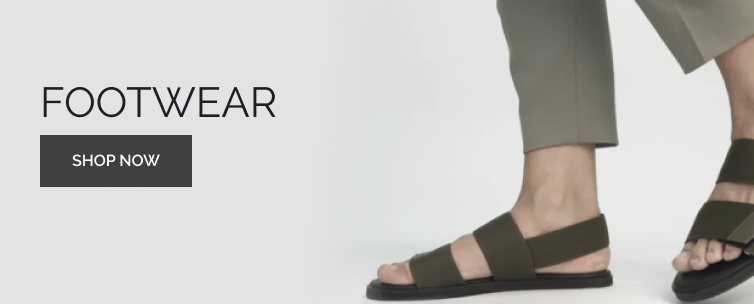
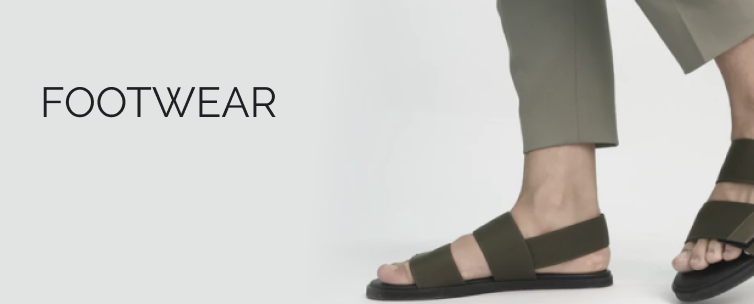
landing page major issues solved

Changed region(s): [[0.0305, 0.4441, 0.2745, 0.6217]]

diff --git a/src/components/ProductRow/ProductRow.js b/src/components/ProductRow/ProductRow.js
@@ -8,54 +8,77 @@ import Typography from '@material-ui/core/Typography';
 import ShoppingCartIcon from '@material-ui/icons/ShoppingCart';
 import FavoriteBorderIcon from '@material-ui/icons/FavoriteBorder';
 import translate from '../../utils/i18n/translate';
-import ArrowBackIosIcon from '@material-ui/icons/ArrowBackIos';
-import ArrowForwardIosIcon from '@material-ui/icons/ArrowForwardIos';
 import IconButton from '@material-ui/core/IconButton';
+import ArrowBackIcon from '@material-ui/icons/ArrowBack';
+import ArrowForwardIcon from '@material-ui/icons/ArrowForward';
 
 function ProductRow({ title, items }) {
   const translator = (item) =>
     translate(item) === item ? item : translate(item);
 
+  const handleNextClick = () => {
+    document.querySelector('.productRow__items').scrollLeft += 250;
+  };
+
+  const handlePrevClick = () => {
+    document.querySelector('.productRow__items').scrollLeft -= 250;
+  };
   return (
     <div className="productRow">
       <h2>{translator(title)}</h2>
 
-      <div className="productRow__itemsRow"></div>
-      <div className="productRow__items">
-        {items.map((item) => (
-          <Card
-            className="productRow__item"
-            style={{ border: 'none', boxShadow: 'none' }}
-          >
-            <CardActionArea>
-              <CardMedia
-                component="img"
-                height="340"
-                image={item.imageUrl}
-                title={translator(item.name)}
-                alt={translator(item.name)}
-              />
-              <CardContent>
-                <Typography gutterBottom variant="h5" component="h2">
-                  <div className="productRow__itemWishlist">
-                    <strong>{translator(item.name)}</strong>
-                    <FavoriteBorderIcon fontSize="large" />
-                  </div>
-                </Typography>
+      <div className="productRow__itemsContainer">
+        <div className="productRow__leftButton" onClick={handlePrevClick}>
+          <IconButton>
+            <ArrowBackIcon />
+          </IconButton>
+        </div>
 
-                <Typography variant="body2" color="textSecondary" component="p">
-                  <div className="productRow__itemCart">
-                    <strong>&#8377; {item.price}</strong>
-                    <ShoppingCartIcon
-                      className="productRow__icon"
-                      fontSize="large"
-                    />
-                  </div>
-                </Typography>
-              </CardContent>
-            </CardActionArea>
-          </Card>
-        ))}
+        <div className="productRow__items">
+          {items.map((item) => (
+            <Card
+              className="productRow__item"
+              style={{ border: 'none', boxShadow: 'none' }}
+            >
+              <CardActionArea>
+                <CardMedia
+                  component="img"
+                  height="340"
+                  image={item.imageUrl}
+                  title={translator(item.name)}
+                  alt={translator(item.name)}
+                />
+                <CardContent>
+                  <Typography gutterBottom variant="h5" component="h2">
+                    <div className="productRow__itemWishlist">
+                      <strong>{translator(item.name)}</strong>
+                      <FavoriteBorderIcon fontSize="large" />
+                    </div>
+                  </Typography>
+
+                  <Typography
+                    variant="body2"
+                    color="textSecondary"
+                    component="p"
+                  >
+                    <div className="productRow__itemCart">
+                      <strong>&#8377; {item.price}</strong>
+                      <ShoppingCartIcon
+                        className="productRow__icon"
+                        fontSize="large"
+                      />
+                    </div>
+                  </Typography>
+                </CardContent>
+              </CardActionArea>
+            </Card>
+          ))}
+        </div>
+        <div className="productRow__leftButton" onClick={handleNextClick}>
+          <IconButton>
+            <ArrowForwardIcon />
+          </IconButton>
+        </div>
       </div>
     </div>
   );

diff --git a/src/views/Home/Home.js b/src/views/Home/Home.js
@@ -13,19 +13,35 @@ const Home = () => {
         <div
           className="home__categories1"
           style={{ backgroundImage: `url(${bannerImages[0].img})` }}
-        ></div>
+        >
+          <div className="home__tileElement">
+            <button className="home__shopButton">Shop Now</button>
+          </div>
+        </div>
         <div
           className="home__categories2"
           style={{ backgroundImage: `url(${bannerImages[1].img})` }}
-        ></div>
+        >
+          <div className="home__tileElement">
+            <button className="home__shopButton">Shop Now</button>
+          </div>
+        </div>
         <div
           className="home__categories3"
           style={{ backgroundImage: `url(${bannerImages[2].img})` }}
-        ></div>
+        >
+          <div className="home__tileElement">
+            <button className="home__shopButton">Shop Now</button>
+          </div>
+        </div>
         <div
           className="home__categories4"
           style={{ backgroundImage: `url(${bannerImages[3].img})` }}
-        ></div>
+        >
+          <div className="home__tileElement">
+            <button className="home__shopButton">Shop Now</button>
+          </div>
+        </div>
       </div>
       <div className="products">
         <ProductRow title="Featured Products" items={PRODUCTS} />

diff --git a/src/views/Home/Home.scss b/src/views/Home/Home.scss
@@ -16,7 +16,7 @@
       'home__categories1 home__categories4 home__categories4';
     @media (max-width: 600px) {
       width: 90%;
-      height: 150vh;
+      height: 185vh;
       grid-template-columns: 1fr;
       grid-template-rows: 1fr 1fr 1fr 1fr;
       grid-template-areas:
@@ -57,5 +57,22 @@
   }
   .home__products {
     display: flex;
+  }
+
+  .home__shopButton {
+    background-color: #43464e;
+    border: 1px solid #43464e;
+    color: #fff;
+    border-radius: 2px;
+    width: 40%;
+    border: 1px solid;
+    margin-top: 10px;
+    font-size: 17px;
+    line-height: 20px;
+  }
+
+  .home__tileElement {
+    margin-top: 35vh;
+    margin-left: 3vw;
   }
 }

diff --git a/src/components/carousel/Carousel.scss b/src/components/carousel/Carousel.scss
@@ -1,10 +1,10 @@
-@import "../colors";
+@import '../colors';
 .carousel {
   width: 90%;
   height: 600px;
   margin: auto;
   background-color: black;
-  font-family: "Raleway", sans-serif;
+  font-family: 'Raleway', sans-serif;
   @media (max-width: 600px) {
     width: 100%;
     height: 50vh;
@@ -41,9 +41,9 @@
           outline-width: 0;
           cursor: pointer;
           transition: padding 0.5s;
-          &:hover{
-            padding-left:0.8rem;
-            padding-right:0.8rem;
+          &:hover {
+            padding-left: 0.8rem;
+            padding-right: 0.8rem;
           }
         }
       }

diff --git a/src/components/ProductRow/ProductRow.css b/src/components/ProductRow/ProductRow.css
@@ -4,11 +4,16 @@
   width: 90%;
 }
 
+.productRow__itemsContainer {
+  display: flex;
+  align-items: center;
+}
 .productRow__items {
   display: flex;
   overflow-y: hidden;
   overflow-x: scroll;
   padding: 20px;
+  scroll-behavior: smooth;
 }
 
 .productRow__items::-webkit-scrollbar {
